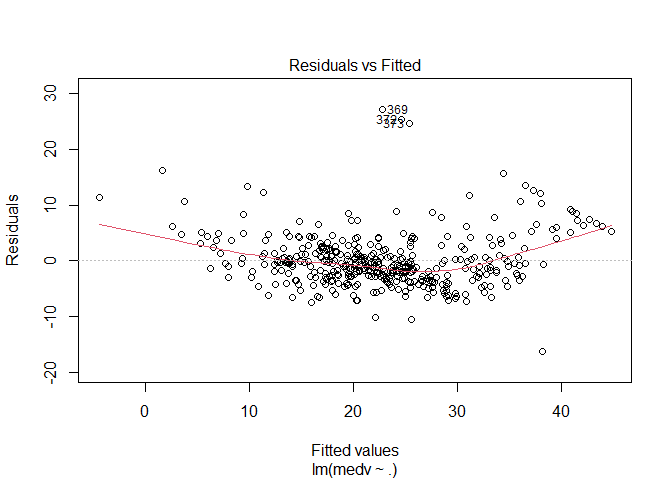
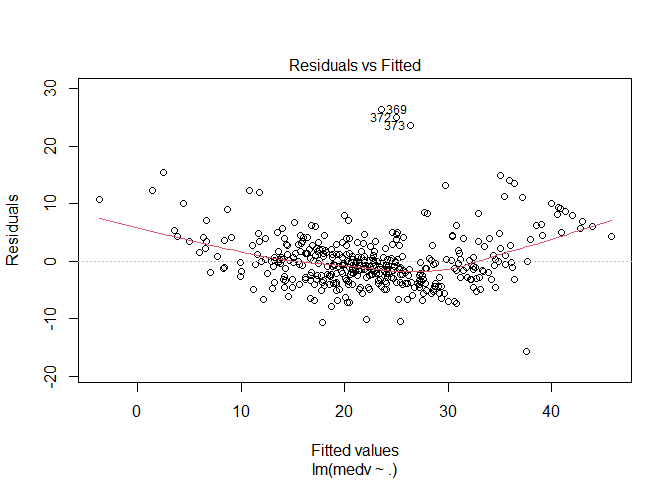
update

diff --git a/boston.md b/boston.md
@@ -31,7 +31,7 @@ Kar Ng
 
 ------------------------------------------------------------------------
 
-![]()
+![](https://raw.githubusercontent.com/KAR-NG/boston/main/pic1_thumbnail.png)
 
 ------------------------------------------------------------------------
 
@@ -79,28 +79,28 @@ data("Boston", package = "MASS")
 sample_n(Boston, 10)
 ```
 
-    ##       crim zn indus chas   nox    rm  age    dis rad tax ptratio  black lstat
-    ## 1  0.22212  0 10.01    0 0.547 6.092 95.4 2.5480   6 432    17.8 396.90 17.09
-    ## 2  0.06642  0  4.05    0 0.510 6.860 74.4 2.9153   5 296    16.6 391.27  6.92
-    ## 3  1.19294  0 21.89    0 0.624 6.326 97.7 2.2710   4 437    21.2 396.90 12.26
-    ## 4  0.23912  0  9.69    0 0.585 6.019 65.3 2.4091   6 391    19.2 396.90 12.92
-    ## 5  0.15936  0  6.91    0 0.448 6.211  6.5 5.7209   3 233    17.9 394.46  7.44
-    ## 6  0.07978 40  6.41    0 0.447 6.482 32.1 4.1403   4 254    17.6 396.90  7.19
-    ## 7  1.12658  0 19.58    1 0.871 5.012 88.0 1.6102   5 403    14.7 343.28 12.12
-    ## 8  0.26169  0  9.90    0 0.544 6.023 90.4 2.8340   4 304    18.4 396.30 11.72
-    ## 9  4.26131  0 18.10    0 0.770 6.112 81.3 2.5091  24 666    20.2 390.74 12.67
-    ## 10 0.16760  0  7.38    0 0.493 6.426 52.3 4.5404   5 287    19.6 396.90  7.20
+    ##        crim zn indus chas   nox    rm  age    dis rad tax ptratio  black lstat
+    ## 1   0.13158  0 10.01    0 0.547 6.176 72.5 2.7301   6 432    17.8 393.30 12.04
+    ## 2   0.03659 25  4.86    0 0.426 6.302 32.2 5.4007   4 281    19.0 396.90  6.72
+    ## 3   4.42228  0 18.10    0 0.584 6.003 94.5 2.5403  24 666    20.2 331.29 21.32
+    ## 4   2.14918  0 19.58    0 0.871 5.709 98.5 1.6232   5 403    14.7 261.95 15.79
+    ## 5  10.83420  0 18.10    0 0.679 6.782 90.8 1.8195  24 666    20.2  21.57 25.79
+    ## 6   6.28807  0 18.10    0 0.740 6.341 96.4 2.0720  24 666    20.2 318.01 17.79
+    ## 7   0.06263  0 11.93    0 0.573 6.593 69.1 2.4786   1 273    21.0 391.99  9.67
+    ## 8   9.92485  0 18.10    0 0.740 6.251 96.6 2.1980  24 666    20.2 388.52 16.44
+    ## 9   1.65660  0 19.58    0 0.871 6.122 97.3 1.6180   5 403    14.7 372.80 14.10
+    ## 10  5.66998  0 18.10    1 0.631 6.683 96.8 1.3567  24 666    20.2 375.33  3.73
     ##    medv
-    ## 1  18.7
-    ## 2  29.9
-    ## 3  19.6
-    ## 4  21.2
-    ## 5  24.7
-    ## 6  29.1
-    ## 7  15.3
-    ## 8  19.4
-    ## 9  22.6
-    ## 10 23.8
+    ## 1  21.2
+    ## 2  24.8
+    ## 3  19.1
+    ## 4  19.4
+    ## 5   7.5
+    ## 6  14.9
+    ## 7  22.4
+    ## 8  12.6
+    ## 9  21.5
+    ## 10 50.0
 
 ### 3.2 Data Description
 
@@ -1159,9 +1159,9 @@ vif(model)
 ```
 
     ##     crim       zn    indus     chas      nox       rm      age      dis 
-    ## 1.750426 2.330746 4.664630 1.080747 4.554828 2.030297 3.056912 3.955434 
+    ## 1.868223 2.375233 4.003021 1.083288 4.373215 1.945879 3.086447 4.059580 
     ##      rad      tax  ptratio    black    lstat 
-    ## 7.318703 9.288970 1.810837 1.401407 2.981938
+    ## 7.052928 8.419109 1.842011 1.377644 3.023860
 
 ### 5.5
 
